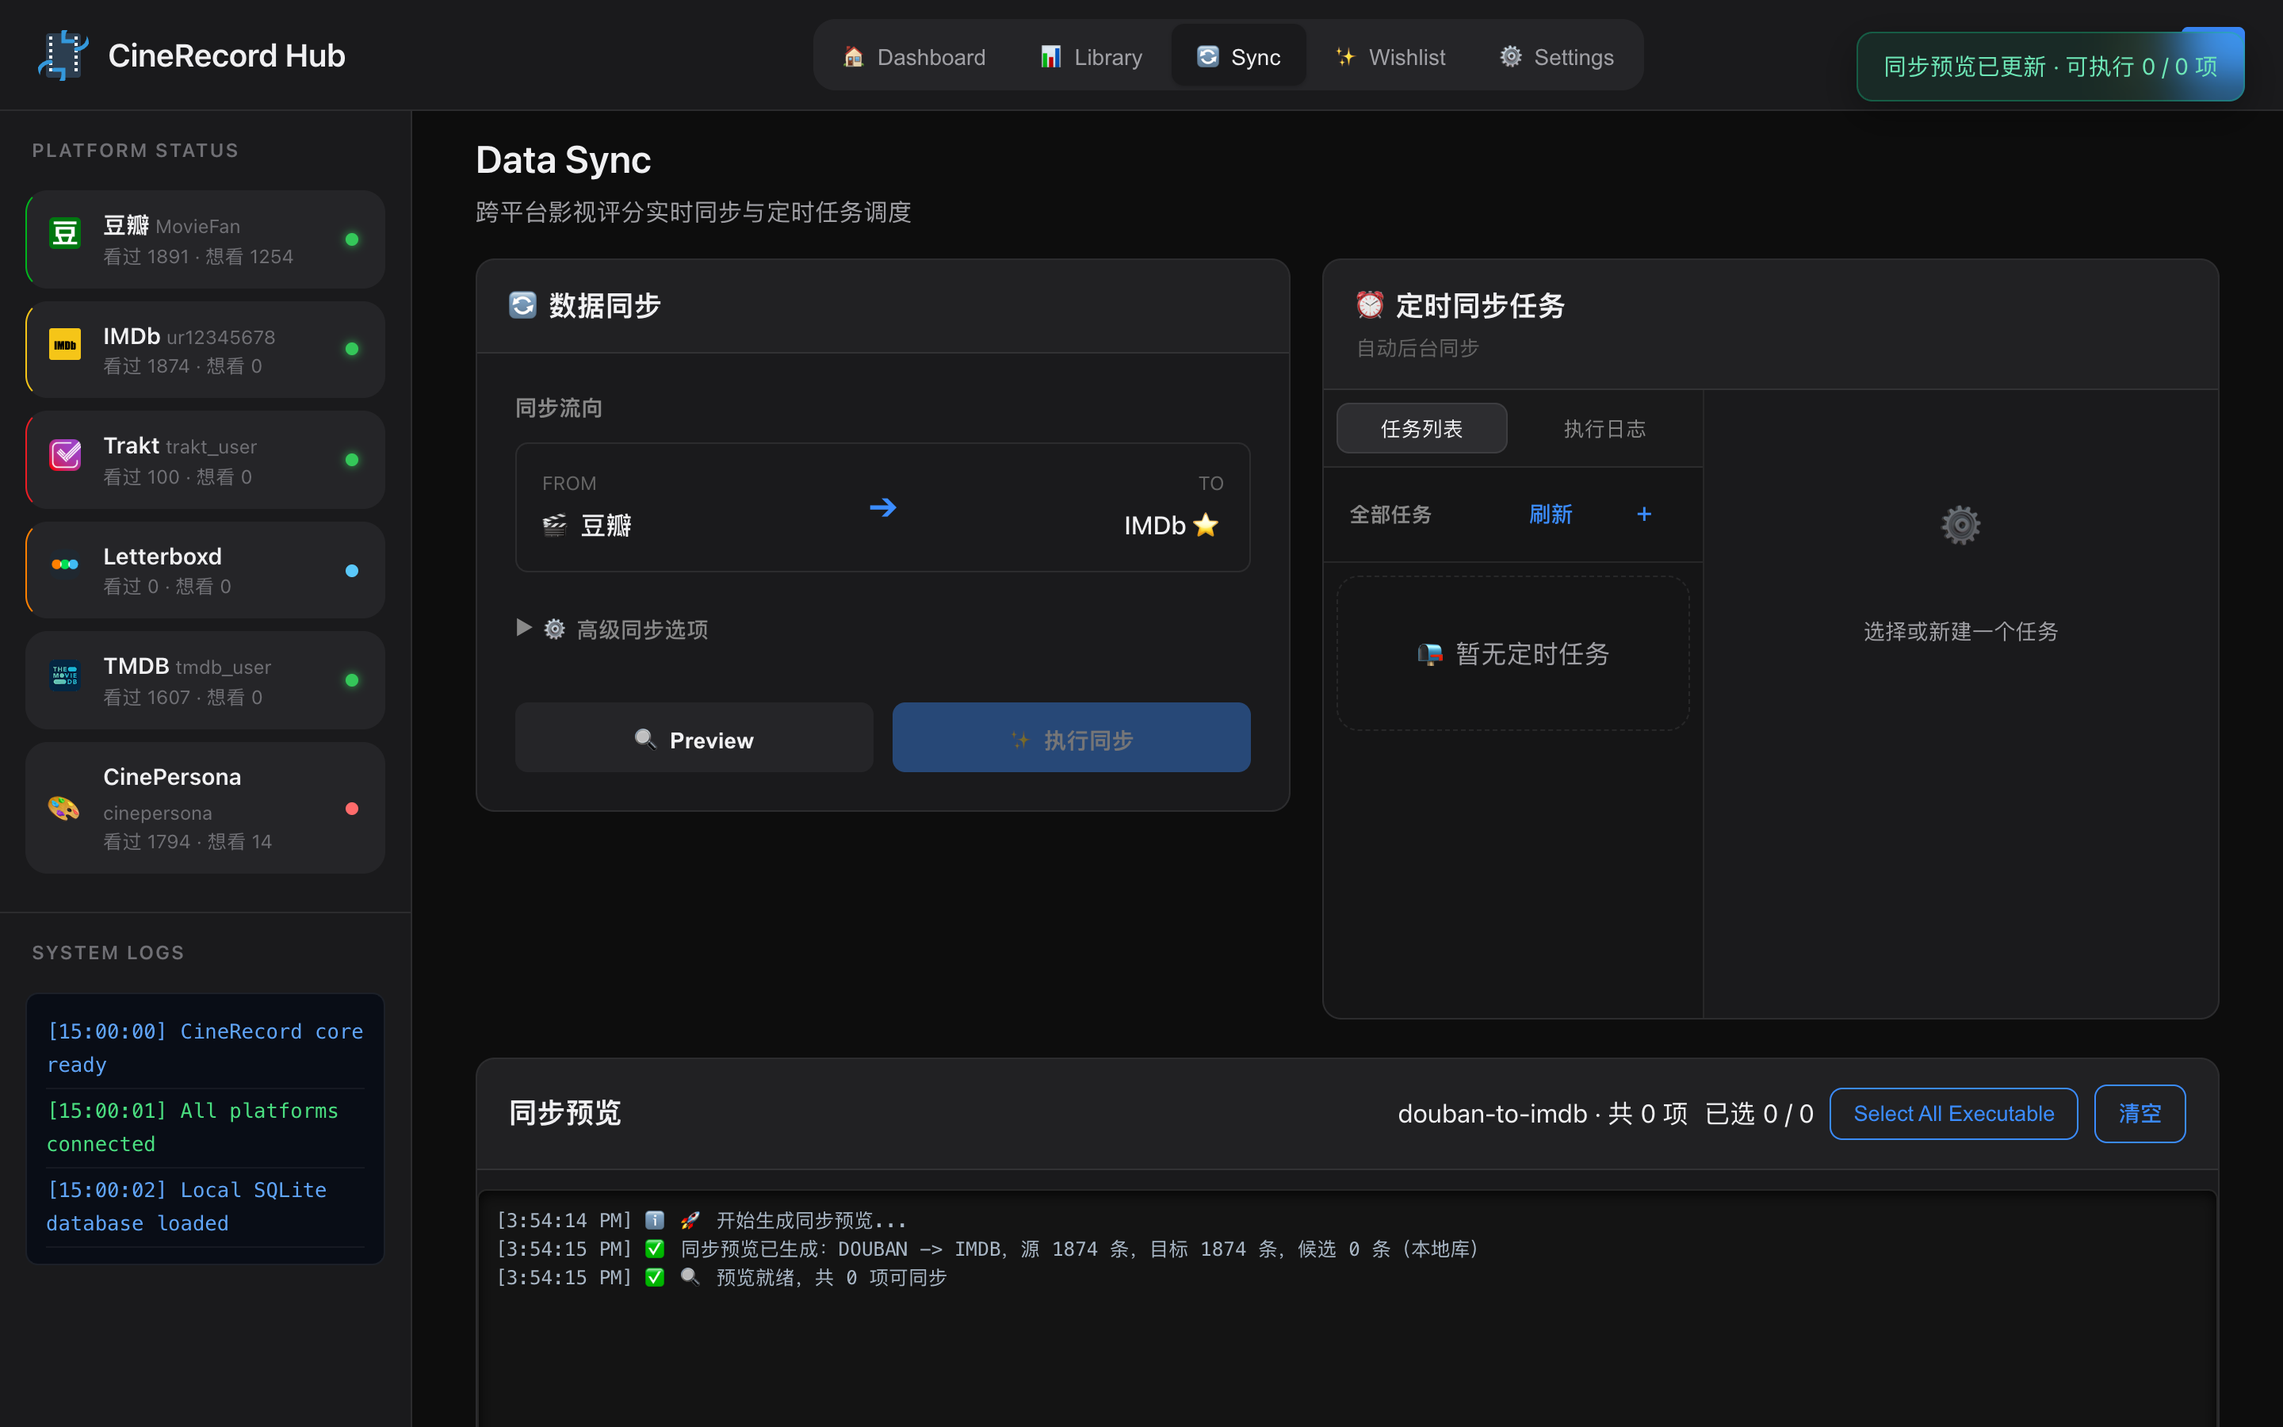
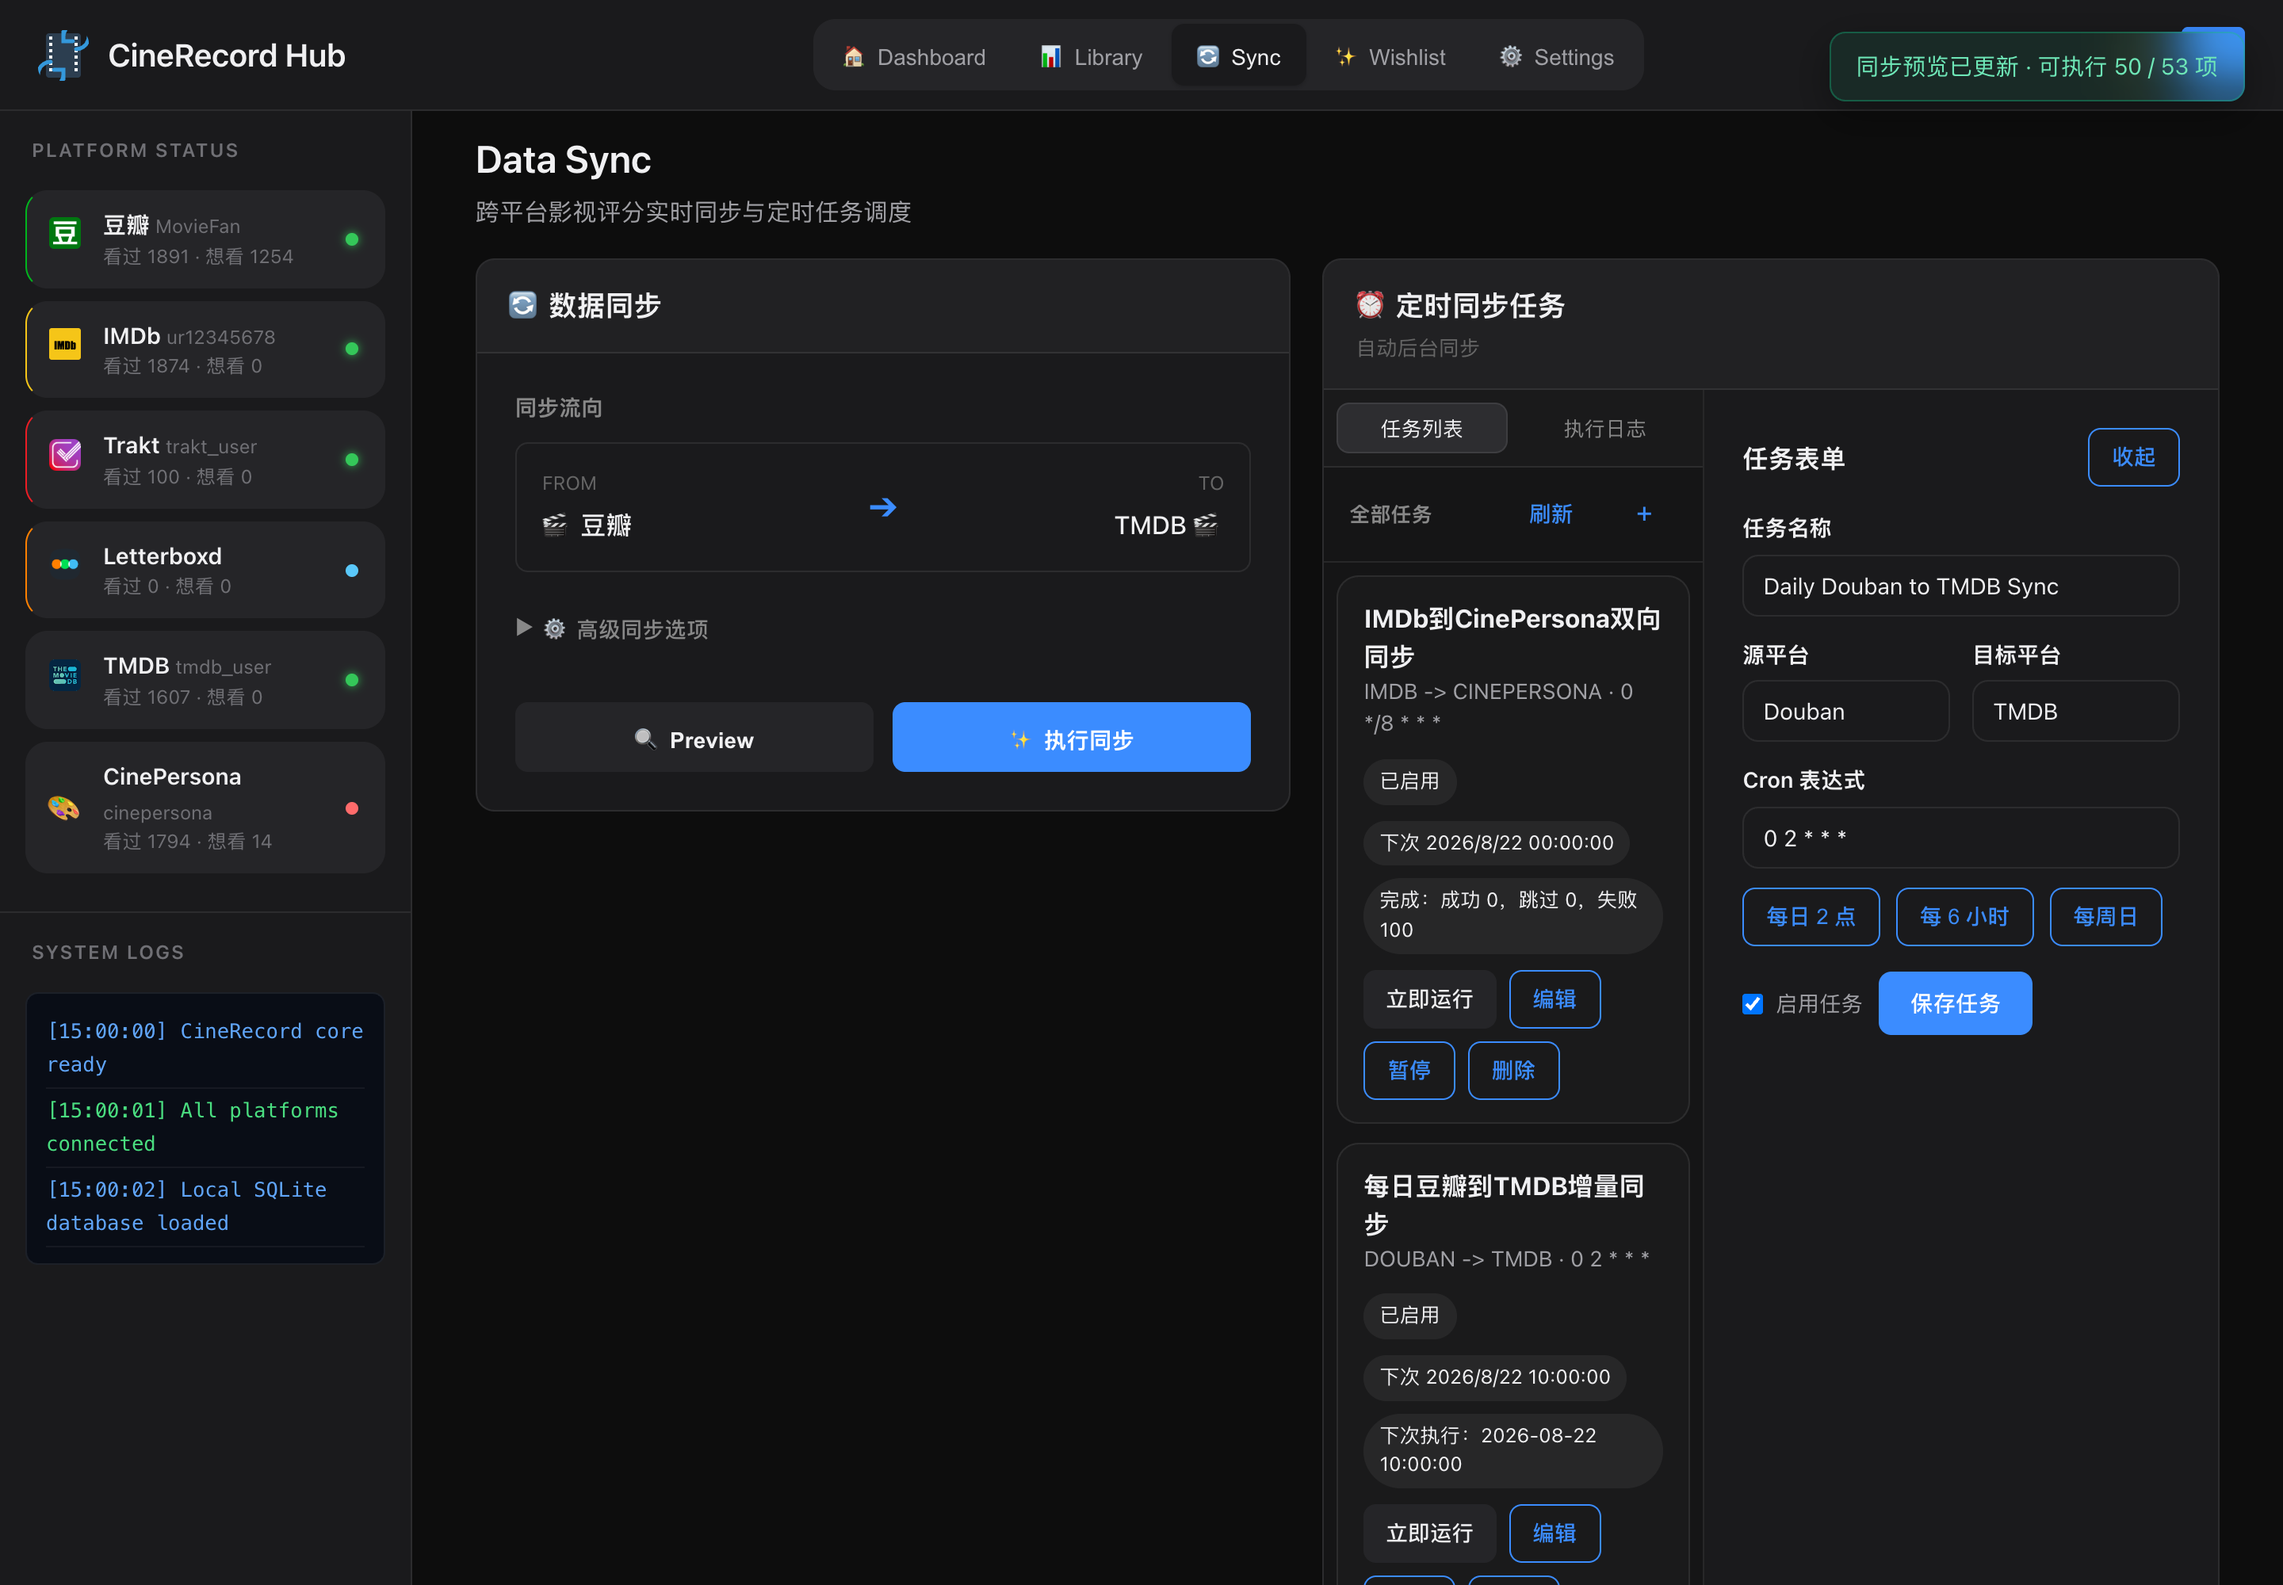
docs: update screenshots with rich sync tasks preview and completed i18n

diff --git a/web/static/i18n.js b/web/static/i18n.js
@@ -733,6 +733,101 @@ const i18n = {
                 }
             });
         });
+
+        // 12. Scheduled Tasks & Sync Stat Labels
+        const taskHeader = document.querySelector('.legacy-scheduled-card h3');
+        if (taskHeader) taskHeader.textContent = isEn ? '⏰ Scheduled Sync Tasks' : '⏰ 定时同步任务';
+        const taskDesc = document.querySelector('.legacy-scheduled-card .legacy-card-desc');
+        if (taskDesc) taskDesc.textContent = isEn ? 'Automated background sync' : '自动后台同步';
+        const addTaskBtn = document.getElementById('open-create-task-modal-btn');
+        if (addTaskBtn) addTaskBtn.textContent = isEn ? '+ Add Task' : '+ 添加任务';
+
+        // 12. Scheduled Tasks & Sync Form Text Maps
+        const syncTextMap = {
+            '定时同步任务': isEn ? 'Scheduled Tasks' : '定时同步任务',
+            'Scheduled Tasks': isEn ? 'Scheduled Tasks' : '定时同步任务',
+            '自动后台同步': isEn ? 'Automated background sync' : '自动后台同步',
+            'Automated background sync': isEn ? 'Automated background sync' : '自动后台同步',
+            '任务列表': isEn ? 'Task List' : '任务列表',
+            'Task List': isEn ? 'Task List' : '任务列表',
+            '执行日志': isEn ? 'Execution Logs' : '执行日志',
+            'Execution Logs': isEn ? 'Execution Logs' : '执行日志',
+            '全部任务': isEn ? 'All Tasks' : '全部任务',
+            'All Tasks': isEn ? 'All Tasks' : '全部任务',
+            '任务表单': isEn ? 'Task Form' : '任务表单',
+            'Task Form': isEn ? 'Task Form' : '任务表单',
+            '任务名称': isEn ? 'Task Name' : '任务名称',
+            'Task Name': isEn ? 'Task Name' : '任务名称',
+            '源平台': isEn ? 'Source Platform' : '源平台',
+            'Source Platform': isEn ? 'Source Platform' : '源平台',
+            '目标平台': isEn ? 'Target Platform' : '目标平台',
+            'Target Platform': isEn ? 'Target Platform' : '目标平台',
+            'Cron 表达式': isEn ? 'Cron Expression' : 'Cron 表达式',
+            'Cron Expression': isEn ? 'Cron Expression' : 'Cron 表达式',
+            '每日 2 点': isEn ? 'Daily 2 AM' : '每日 2 点',
+            'Daily 2 AM': isEn ? 'Daily 2 AM' : '每日 2 点',
+            '每 6 小时': isEn ? 'Every 6 Hours' : '每 6 小时',
+            'Every 6 Hours': isEn ? 'Every 6 Hours' : '每 6 小时',
+            '每周日': isEn ? 'Weekly Sunday' : '每周日',
+            'Weekly Sunday': isEn ? 'Weekly Sunday' : '每周日',
+            '启用任务': isEn ? 'Enable Task' : '启用任务',
+            'Enable Task': isEn ? 'Enable Task' : '启用任务',
+            '保存任务': isEn ? 'Save Task' : '保存任务',
+            'Save Task': isEn ? 'Save Task' : '保存任务',
+            '收起': isEn ? 'Close' : '收起',
+            'Close': isEn ? 'Close' : '收起',
+            '立即运行': isEn ? 'Run Now' : '立即运行',
+            'Run Now': isEn ? 'Run Now' : '立即运行',
+            '编辑': isEn ? 'Edit' : '编辑',
+            'Edit': isEn ? 'Edit' : '编辑',
+            '暂停': isEn ? 'Pause' : '暂停',
+            'Pause': isEn ? 'Pause' : '暂停',
+            '删除': isEn ? 'Delete' : '删除',
+            'Delete': isEn ? 'Delete' : '删除',
+            '已启用': isEn ? 'Enabled' : '已启用',
+            'Enabled': isEn ? 'Enabled' : '已启用',
+            '刷新': isEn ? 'Refresh' : '刷新',
+            'Refresh': isEn ? 'Refresh' : '刷新',
+            '数据同步': isEn ? 'Data Sync' : '数据同步',
+            'Data Sync': isEn ? 'Data Sync' : '数据同步',
+            '同步流向': isEn ? 'Sync Flow' : '同步流向',
+            'Sync Flow': isEn ? 'Sync Flow' : '同步流向',
+            '高级同步选项': isEn ? 'Advanced Options' : '高级同步选项',
+            'Advanced Options': isEn ? 'Advanced Options' : '高级同步选项',
+            '跨平台影视评分实时同步与定时任务调度': isEn ? 'Cross-platform movie & TV rating sync & automated scheduler' : '跨平台影视评分实时同步与定时任务调度',
+            'Cross-platform movie & TV rating sync & automated scheduler': isEn ? 'Cross-platform movie & TV rating sync & automated scheduler' : '跨平台影视评分实时同步与定时任务调度'
+        };
+        document.querySelectorAll('#tab-sync *').forEach(el => {
+            if (el.children.length === 0 && el.textContent.trim()) {
+                const txt = el.textContent.trim();
+                if (syncTextMap[txt]) el.textContent = syncTextMap[txt];
+            }
+        });
+
+        const syncMetricMap = {
+            '源库': isEn ? 'Source' : '源库',
+            'Source': isEn ? 'Source' : '源库',
+            '目标库': isEn ? 'Target' : '目标库',
+            'Target': isEn ? 'Target' : '目标库',
+            '可执行': isEn ? 'Executable' : '可执行',
+            'Executable': isEn ? 'Executable' : '可执行',
+            '已跳过': isEn ? 'Skipped' : '已跳过',
+            'Skipped': isEn ? 'Skipped' : '已跳过'
+        };
+        document.querySelectorAll('.stat-label').forEach(label => {
+            const text = label.textContent.trim();
+            if (syncMetricMap[text]) label.textContent = syncMetricMap[text];
+        });
+
+        // 13. Sync table headers
+        const thSource = document.querySelector('.sync-preview-table th:nth-child(2)');
+        if (thSource) thSource.textContent = isEn ? 'Movie / Show' : '电影 / 剧集';
+        const thFlow = document.querySelector('.sync-preview-table th:nth-child(3)');
+        if (thFlow) thFlow.textContent = isEn ? 'Flow' : '流向';
+        const thRatings = document.querySelector('.sync-preview-table th:nth-child(4)');
+        if (thRatings) thRatings.textContent = isEn ? 'Ratings' : '评分对比';
+        const thStatus = document.querySelector('.sync-preview-table th:nth-child(5)');
+        if (thStatus) thStatus.textContent = isEn ? 'Action / Status' : '操作 / 状态';
     },
 
     /**

diff --git a/scripts/capture_screenshots.js b/scripts/capture_screenshots.js
@@ -136,7 +136,7 @@ async function capture() {
         ],
         defaultViewport: {
             width: 1440,
-            height: 900,
+            height: 1000,
             deviceScaleFactor: 2, // Retina 2x
         },
     });
@@ -203,10 +203,40 @@ async function capture() {
         console.log('  -> Sync');
         await page.evaluate(async () => {
             if (typeof openTab === 'function') openTab('sync');
+            const sourceSelect = document.getElementById('sync-source-select');
+            if (sourceSelect) {
+                sourceSelect.value = 'douban';
+                sourceSelect.dispatchEvent(new Event('change'));
+            }
+            const targetSelect = document.getElementById('sync-target-select');
+            if (targetSelect) {
+                targetSelect.value = 'tmdb';
+                targetSelect.dispatchEvent(new Event('change'));
+            }
             const previewBtn = document.getElementById('preview-sync-btn');
             if (previewBtn) previewBtn.click();
         });
-        await wait(2500);
+        await wait(3000);
+        await page.evaluate((isEnglish) => {
+            const formPanel = document.getElementById('scheduled-task-form-panel');
+            if (formPanel) formPanel.style.display = 'block';
+            const placeholder = document.getElementById('task-form-placeholder') || document.querySelector('.scheduled-right-panel > div:not(#scheduled-task-form-panel)');
+            if (placeholder) placeholder.style.display = 'none';
+
+            const nameInput = document.getElementById('scheduled-task-name');
+            if (nameInput) nameInput.value = isEnglish ? 'Daily Douban to TMDB Sync' : '每日豆瓣到TMDB增量同步';
+            const srcSelect = document.getElementById('scheduled-task-source');
+            if (srcSelect) srcSelect.value = 'douban';
+            const tgtSelect = document.getElementById('scheduled-task-target');
+            if (tgtSelect) tgtSelect.value = 'tmdb';
+            const cronInput = document.getElementById('scheduled-task-cron');
+            if (cronInput) cronInput.value = '0 2 * * *';
+
+            if (window.i18n && window.i18n.applyTranslations) {
+                window.i18n.applyTranslations();
+            }
+        }, lang.code === 'en');
+        await wait(600);
         await anonymize(page);
         const syncPath = path.join(OUTPUT_DIR, `sync_${lang.suffix}.png`);
         await page.screenshot({ path: syncPath });
